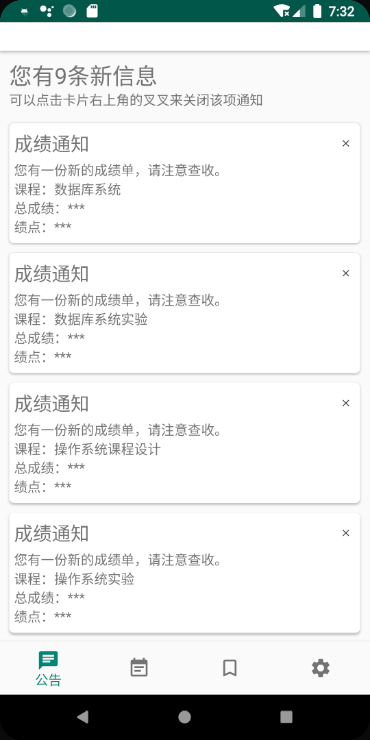
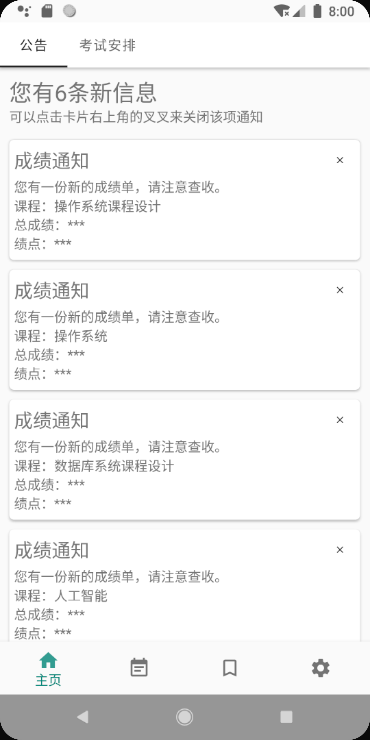
version 1.1

diff --git a/app/src/main/java/com/example/mygdut/view/fragment/SettingFragment.kt b/app/src/main/java/com/example/mygdut/view/fragment/SettingFragment.kt
@@ -1,7 +1,6 @@
 package com.example.mygdut.view.fragment
 
 import android.os.Bundle
-import android.view.View
 import androidx.appcompat.app.AlertDialog
 import androidx.preference.Preference
 import androidx.preference.PreferenceFragmentCompat
@@ -14,12 +13,12 @@ class SettingFragment : PreferenceFragmentCompat() {
     }
 
     override fun onCreatePreferences(savedInstanceState: Bundle?, rootKey: String?) {
+        preferenceManager.sharedPreferencesName = "setting"
         setPreferencesFromResource(R.xml.setting, rootKey)
-        preferenceManager.sharedPreferencesName = "general_setting"
     }
 
-    override fun onViewCreated(view: View, savedInstanceState: Bundle?) {
-        super.onViewCreated(view, savedInstanceState)
+    override fun onActivityCreated(savedInstanceState: Bundle?) {
+        super.onActivityCreated(savedInstanceState)
         setupClickListener()
     }
 
@@ -28,10 +27,7 @@ class SettingFragment : PreferenceFragmentCompat() {
      */
     private fun setupClickListener() {
         findPreference<Preference>("about_btn")?.setOnPreferenceClickListener {
-            val msg =
-                context?.resources?.getString(R.string.about_msg) ?: it.context.resources.getString(
-                    R.string.about_msg
-                )
+            val msg = (context?:it.context).resources.getString(R.string.about_msg)
             AlertDialog.Builder(context ?: it.context)
                 .setTitle("关于")
                 .setMessage(msg)
@@ -49,6 +45,4 @@ class SettingFragment : PreferenceFragmentCompat() {
         fun onLogout()
     }
 
-    companion object {
-    }
 }

diff --git a/app/src/main/java/com/example/mygdut/view/fragment/ScheduleFragment.kt b/app/src/main/java/com/example/mygdut/view/fragment/ScheduleFragment.kt
@@ -27,12 +27,7 @@ import com.example.mygdut.viewModel.`interface`.ViewModelCallBack
 import kotlinx.android.synthetic.main.fragment_schedule.*
 import javax.inject.Inject
 
-private const val ARG_PARAM1 = "param1"
-private const val ARG_PARAM2 = "param2"
-
 class ScheduleFragment : Fragment() {
-    private var param1: String? = null
-    private var param2: String? = null
 
     @Inject
     lateinit var mViewModel: ScheduleViewModel
@@ -48,10 +43,6 @@ class ScheduleFragment : Fragment() {
 
     override fun onCreate(savedInstanceState: Bundle?) {
         super.onCreate(savedInstanceState)
-        arguments?.let {
-            param1 = it.getString(ARG_PARAM1)
-            param2 = it.getString(ARG_PARAM2)
-        }
         inject()
         mViewModel.setCallBack(object : ViewModelCallBack {
             override fun onFail(msg: String) {
@@ -75,10 +66,11 @@ class ScheduleFragment : Fragment() {
         setClickListener()
         mViewModel.getInitData()
         schedule_refresh.startAnimation(anim)
+        checkSchoolDay()
     }
 
     private fun checkSchoolDay(){
-
+        mViewModel
     }
 
     private fun setSchoolDay(){

diff --git a/README.md b/README.md
@@ -1,20 +1,45 @@
 # MyGdut
 非官方GDUT教务系统APP（For Student）
 
+
+
+1.1版本信息：
+
+修复bug:
+
+1. 第一次打开成绩界面时，标题显示的是某个学期，但是数据却是整个大学的数据
+2. catch了Http错误
+
+新增功能：
+
+1. 成绩、课程表的本地存储
+2. 课程表支持自定义添加和删除课程（但不能删除教务系统的课程）
+3. 可以查看考试安排了，并且采用时间轴的方式呈现还未考的科目
+4. 下门考试科目倒计时若剩余时间大于等于一天，则显示周次和天数，若剩余时间小于一天，则显示小时和分钟
+
+
+
+1.0版本信息：
+
 功能点：
 
 1. 将已训练好的pytorch部署到app上，可识别教务系统登录界面的验证码以实现自动登录
 2. 可查询通知、课程表、绩点
-3. app直接爬取教务系统上的数据，不存在读脏数据的问题
+3. app直接爬取教务系统上的数据
 4. 账号密码只加密存储在本地，且使用AES加密，而AES的密钥也有加密存储...
 5. 还有一大堆的功能还在制作中...
 
+
+
 注意事项：
 
-1. 如果发现弹出提示“服务器崩了”或者“连接超时”等错误提示，请先检查是不是手机没开网络或者信号不好
-2. 如果app崩溃，可以记录下导致app崩溃的过程并在issues上说明，bug会在后续版本中得到修复
-3. 如果觉得某个功能做的不好，或者有想要加上去的功能，也可以提issues
-4. **重点**：只要[教务系统](https://jxfw.gdut.edu.cn/)的相关接口没有更改，则该app可以一直使用
+1. 外网接口晚上11点半左右以后将会无法访问
+2. 如果发现弹出提示“服务器崩了”或者“连接超时”等错误提示，请先检查是不是手机没开网络或者信号不好
+3. 如果app崩溃，可以记录下导致app崩溃的过程并在issues上说明，bug会在后续版本中得到修复
+4. 如果觉得某个功能做的不好，或者有想要加上去的功能，也可以提issues
+5. **重点**：只要[教务系统](https://jxfw.gdut.edu.cn/)的相关接口没有更改，则该app可以一直使用
+
+
 
 最后...欢迎大家也一起参与到此app的开发中来
 
@@ -22,41 +47,53 @@
 
 下面是使用界面：
 
-<img src="images/login.png" width="25%" />
 登录界面
 
-<img src="images/notice.png" width="25%" />
+<img src="images/login.png" width="25%" />
+
 通知界面
 
-<img src="images/schedule.png" width="25%" />
+<img src="images/notice.png" width="25%" />
+
+考试安排界面(由于现在还没有考试，所以先不展示时间轴形式了...)
+
+<img src="images/exam.png" width="25%" />
+
 课程表
+
+<img src="images/schedule.png" width="25%" />
 
 此时的课程表并不是完全形态，由于没有一个特别好且稳定的爬取开学日期的方法，所以无法定位到现在是第几周，且相关日期也无法知晓。
 
 但是，用户可以点击右上角的“齿轮”来选择此学期的开学日期（上课第一周的周一），如下图所示
 
-<img src="images/schedule_setting.png" width="25%" />
 课程表设置
+
+<img src="images/schedule_setting.png" width="25%" />
 
 然后课程表就会进入完全形态：每次打开app会自动定位到当前周次，并且上面每一天也会显示具体的日期，如下图所示
 
-<img src="images/schedule_all.png" width="25%" />
 课程表完全形态
+
+<img src="images/schedule_all.png" width="25%" />
 
 最后一个已完成的功能是绩点查询。如下所示：
 
-<img src="images/mark.png" width="25%" />
 绩点查询
 
+<img src="images/mark.png" width="25%" />
+
 如果有某个课程未教评，则无法计算其绩点，但是仍然会将其统计在已出成绩的课程数量中，但会有额外的提示。
+
+但是如果开启了自动教评（默认开启），则会在检测到无法获取该门课成绩时就会自动给该门课程教评
 
 
 
 目前在开发计划中的功能：
 
-* 数据的本地存储（当前版本并没有存储数据，每次进入都是请求的教务系统官方数据）
-* 支持用户自定义增加课程（大概会在下个版本跟上一条一起推出）
-* 自动教评/一键教评（希望不会被查水表...）
+* ~~数据的本地存储（当前版本并没有存储数据，每次进入都是请求的教务系统官方数据）~~
+* ~~支持用户自定义增加课程（大概会在下个版本跟上一条一起推出）~~
+* ~~自动教评/一键教评（希望不会被查水表...）~~
 * 查询空课室（看看能不能搞点新花样）
 * 自动抢课（这个可能需要点时间...）...
 
